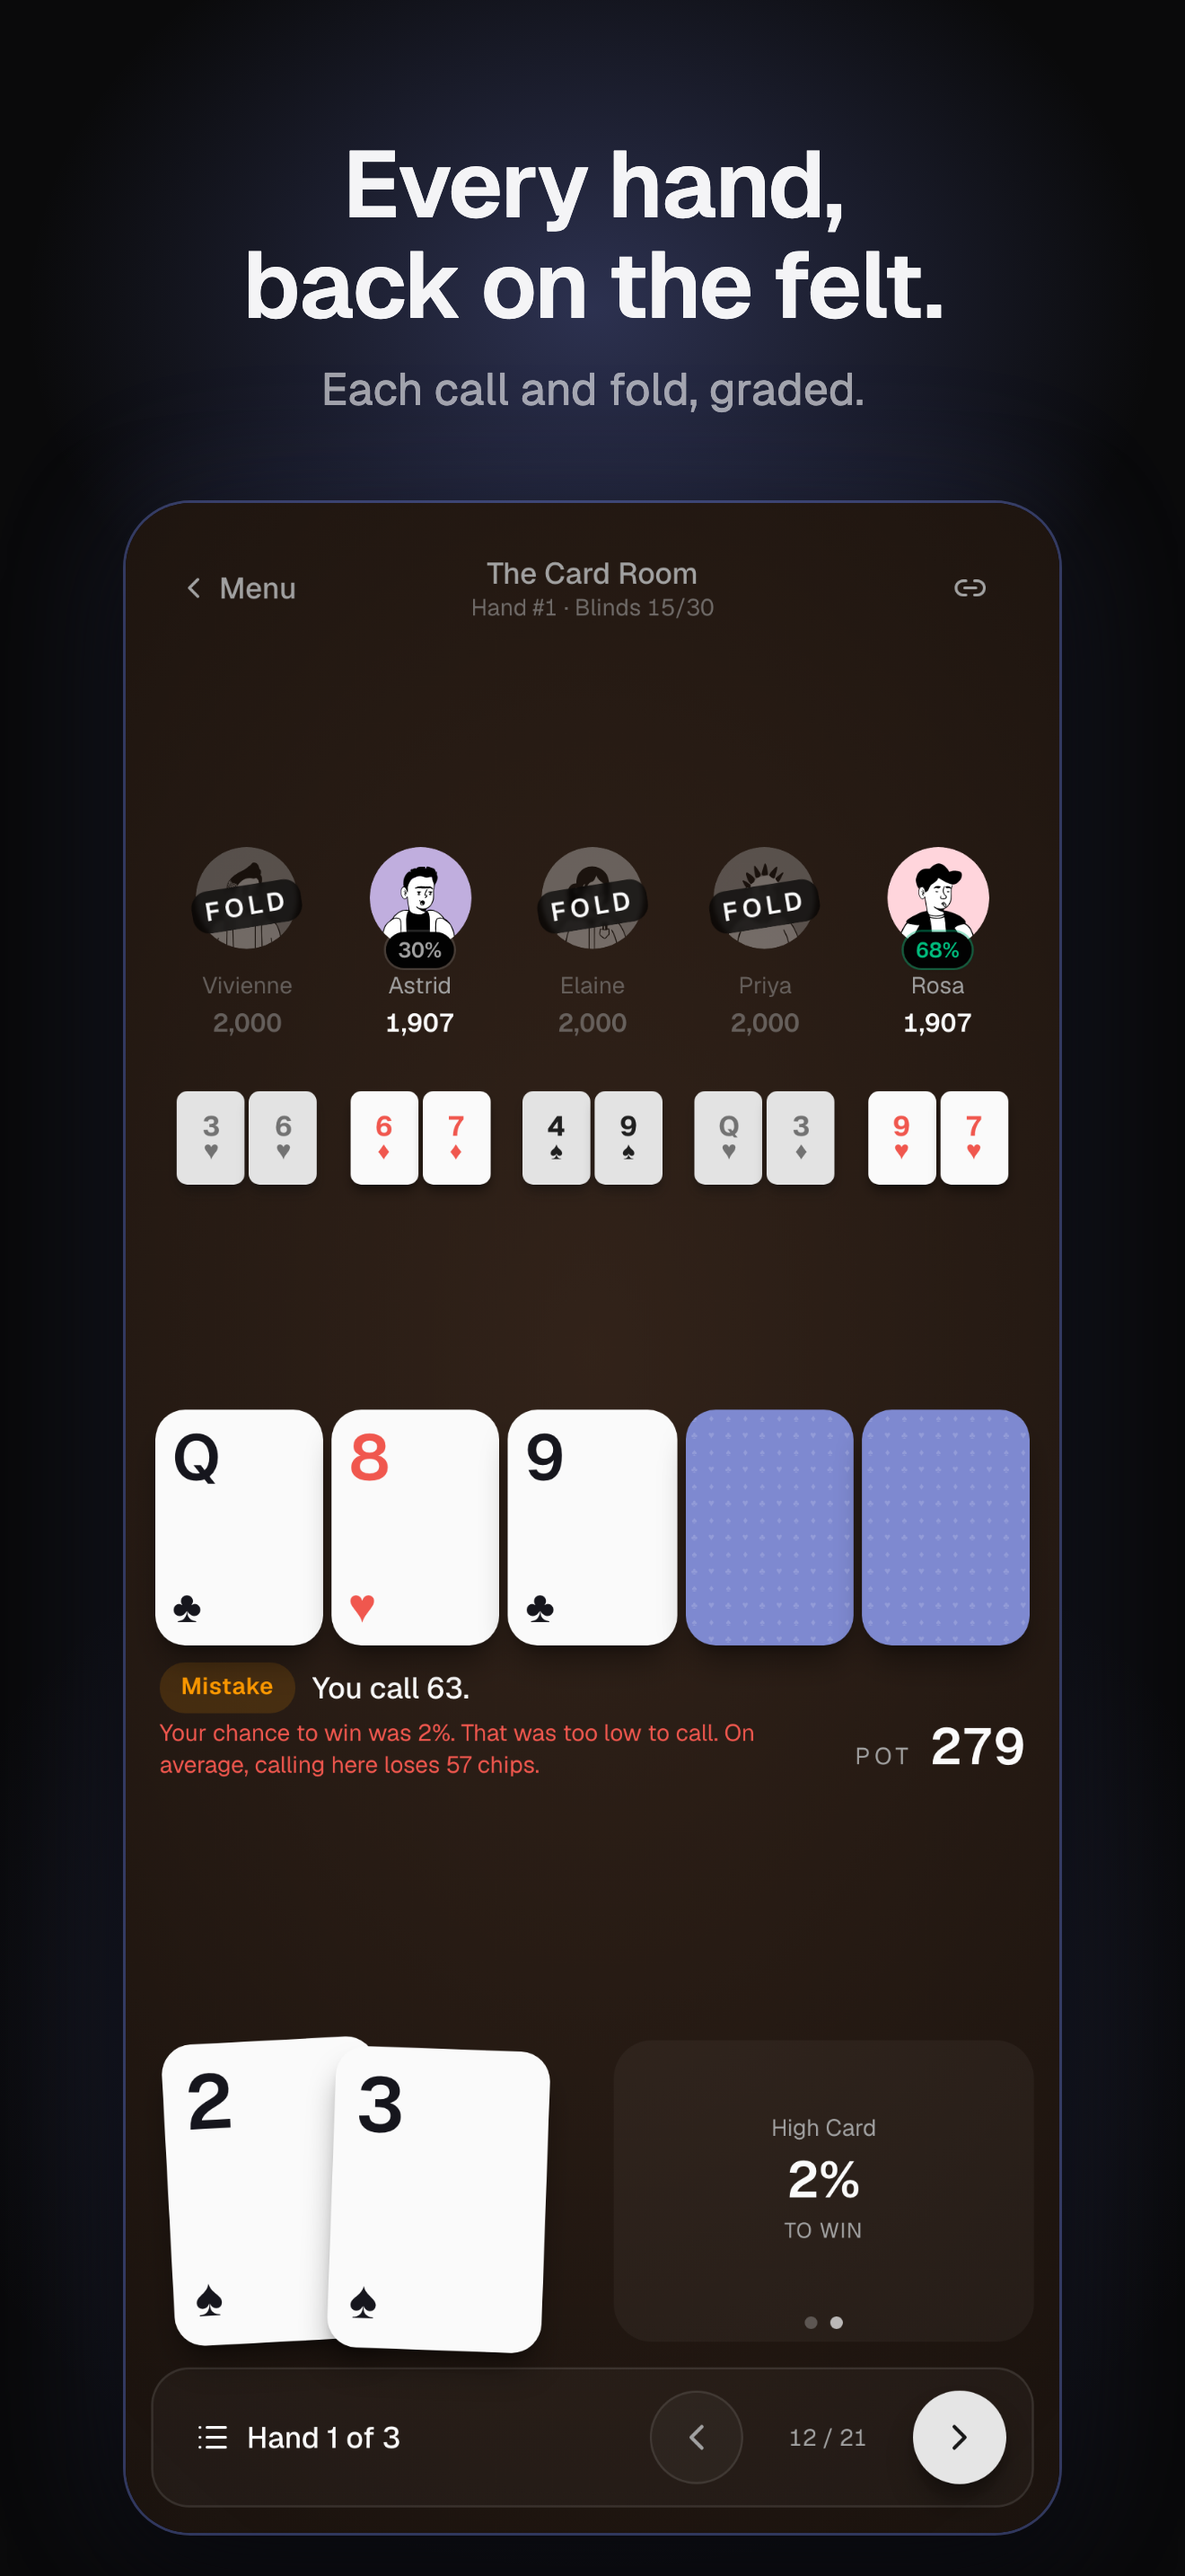
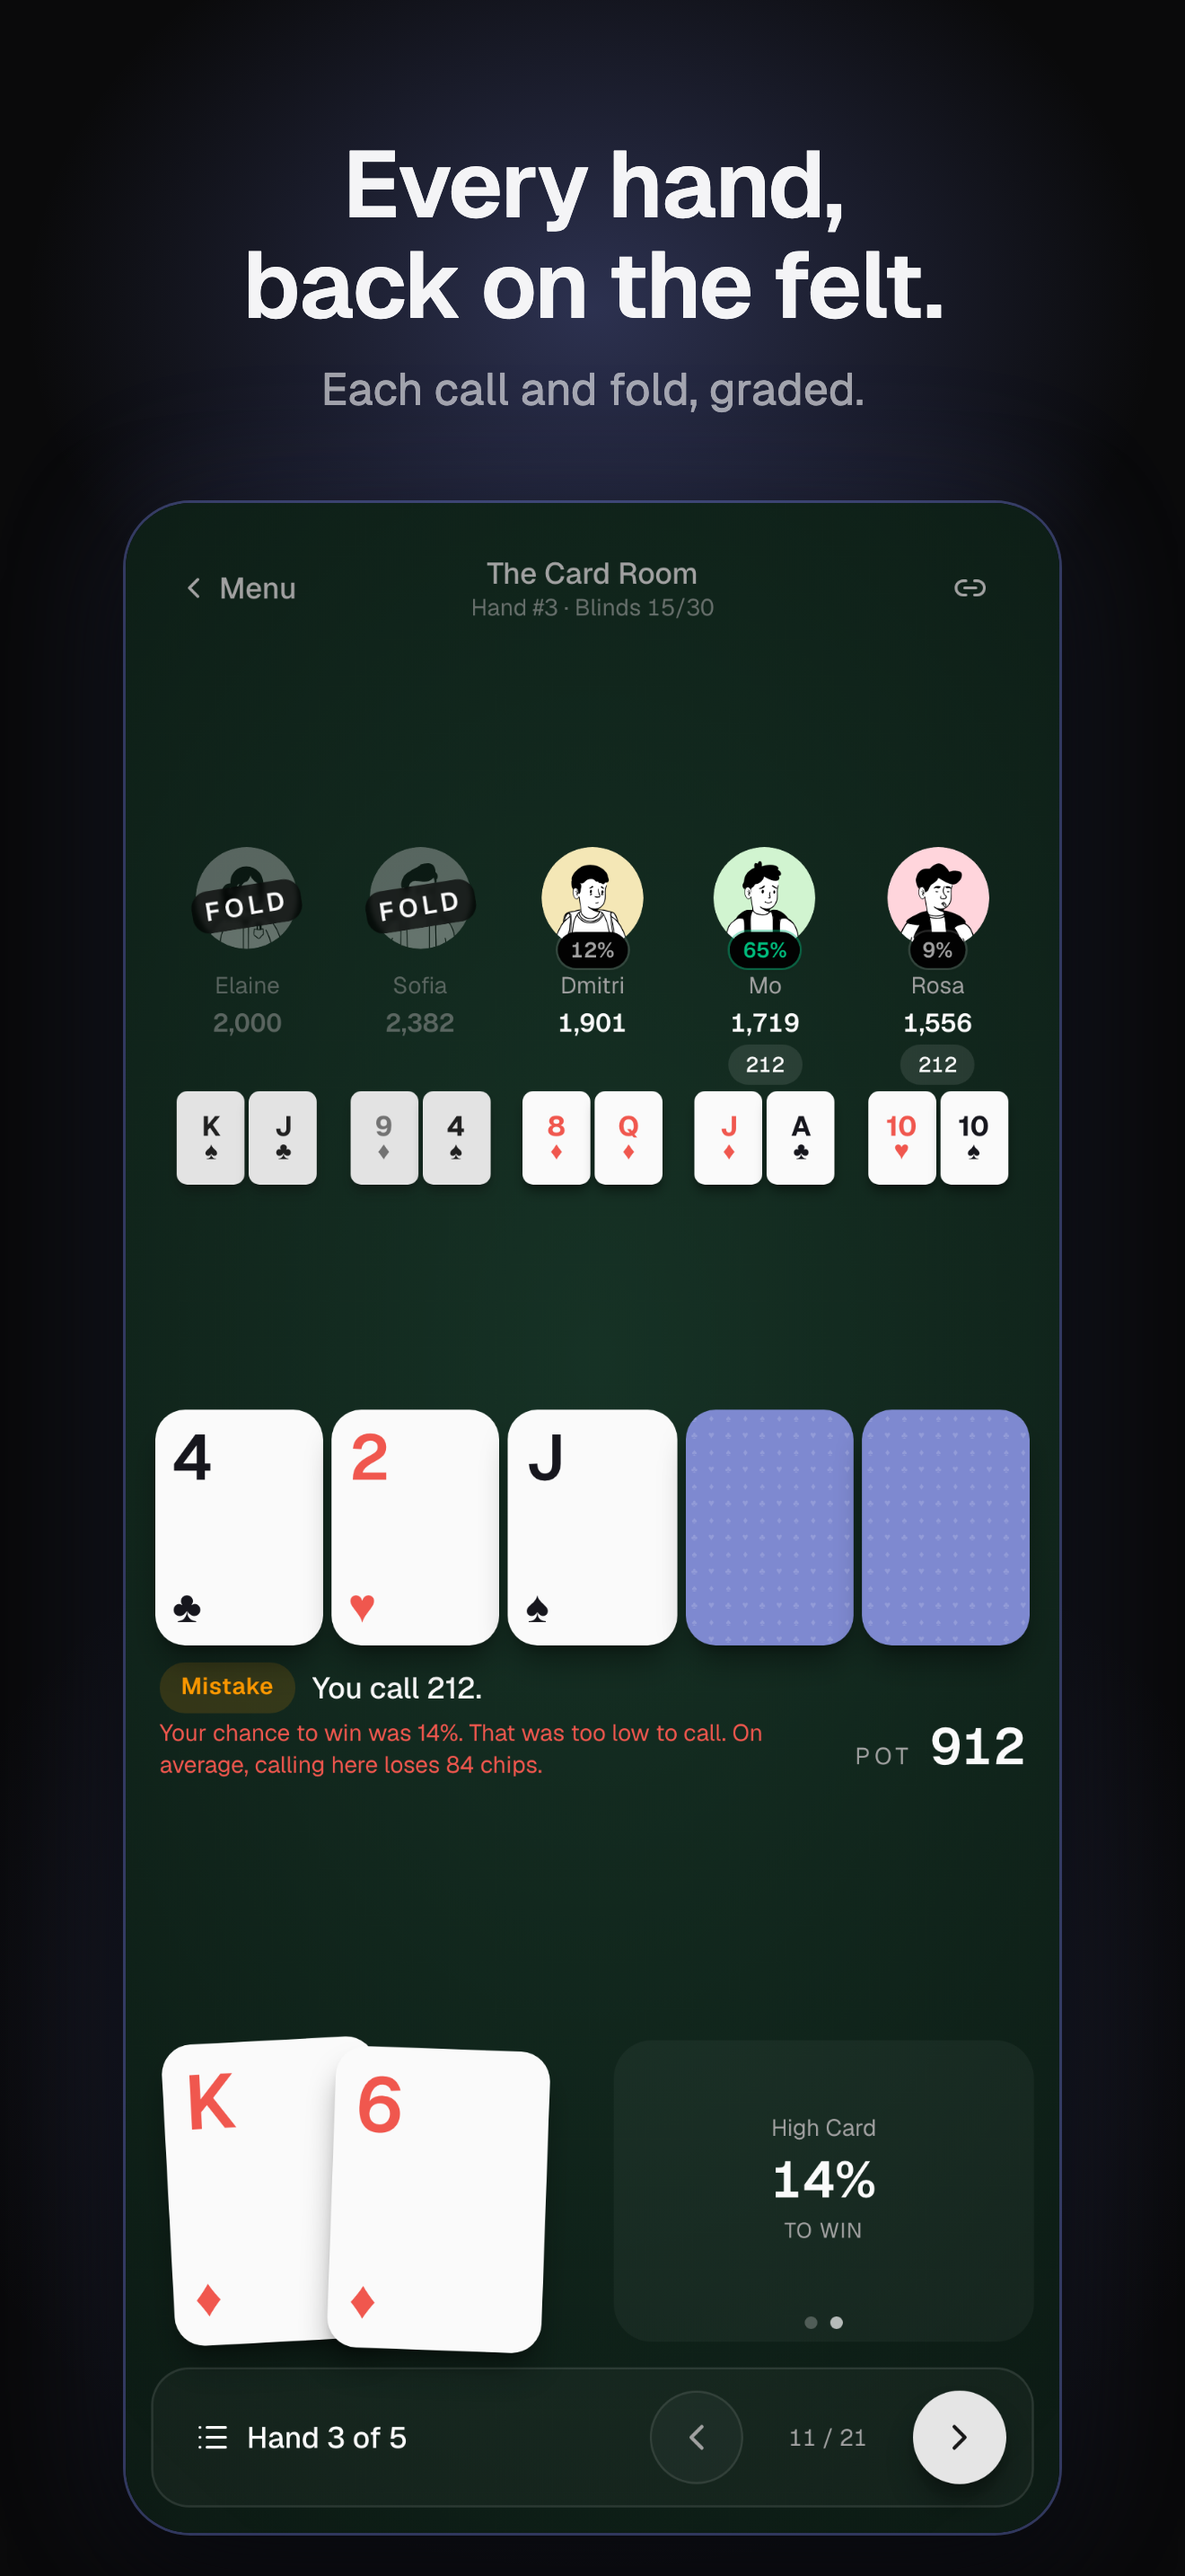
chore(app): green screenshots at 6.9" and 6.3", header and search art
Screenshots redone on the green felt with a mint avatar (and so a green sparkline), rendered natively at 1320x2868 and 1206x2622 and listed under APP_IPHONE_67 and APP_IPHONE_61. Promotional header (3840x1646, 5244x2950) and search-result (1920x1280, 3840x2560) images in store/promo. Both locales titled Pip: Poker.

diff --git a/mobile/store/README.md b/mobile/store/README.md
@@ -7,11 +7,14 @@ Everything for the App Store Connect listing. Phase 3 of `EXPO-PLAN.md`.
 | File | What it is |
 |------|------------|
 | `store.config.json` | EAS Metadata: name, subtitle, description, keywords, promo text, URLs, categories, age rating answers, copyright, review contact and notes. en-GB and en-US carry the same text. |
-| `screenshots/01-home.png` … `07-stats.png` | Seven 1320×2868 PNGs for the 6.9" iPhone slot, no alpha. Already listed in `store.config.json` under `APP_IPHONE_67`. |
+| `screenshots/01-home.png` … `07-stats.png` | Seven 1320×2868 PNGs for the 6.9" iPhone slot, no alpha. Listed in `store.config.json` under `APP_IPHONE_67`. |
+| `promo/` | Promotional art: two header images and two search-results images (below). |
+| `screenshots-6.3/` | The same seven at 1206×2622 for the 6.3" slot, rendered at that size rather than scaled down. Listed under `APP_IPHONE_61`. |
 
 The screenshots are the live site at playpip.io in a 440×956 iPhone viewport at 3×, with the
-app flag set (so the copy says "this app"), and a seeded profile (Robin, 18,450 chips, walnut
-table). Screens 03–06 are member features. They were captured with a stand-in signed-in member,
+app flag set (so the copy says "this app"), and a seeded profile (Robin, 18,450 chips, the
+green Baize finish, mint avatar background, so the felt, backdrop and Roll sparkline all read
+green). Screens 03–06 are member features. They were captured with a stand-in signed-in member,
 faked in the browser only, so nothing was written to Supabase.
 
 ## Before you submit: fill these in
@@ -44,14 +47,29 @@ Also decide:
 3. From `mobile/`: `npx eas-cli@latest metadata:push`. This pushes the text, age rating,
    categories, review info and screenshots. Screenshot paths in the config are relative to
    `mobile/`.
-4. If the push won't take the screenshots, drag the seven PNGs in order into the 6.9" iPhone
-   slot in App Store Connect. App Store Connect scales them down for the smaller iPhone sizes.
-   No iPad set is needed, because `supportsTablet` is false.
+4. **Which folder goes where:** `screenshots/` goes in the **6.9" Display** slot (required).
+   `screenshots-6.3/` goes in the **6.3" Display** slot (optional; without it App Store Connect
+   scales the 6.9" set down). If the push won't take them, drag each folder's seven PNGs in
+   order into its slot by hand. No iPad set is needed, because `supportsTablet` is false.
 5. Check in App Store Connect that the age rating comes out at 18+ (17+ under the older
    scheme) and that the categories read Games › Card (and Board), secondary Education.
 
 `release` is manual release plus phased rollout. Change `automaticRelease` to `true` if you
 want it live the moment it is approved.
+
+## Promotional art
+
+These go in App Store Connect's promotional artwork / featuring section (the app's page under
+App Store › Promotional Artwork, or the "Nominate" featuring form). They aren't part of
+`eas metadata:push`, so upload them by hand. All are opaque PNGs, composed at their own size,
+with the content kept inside roughly the central 80% so Apple's crops and overlays miss it.
+
+| File | Slot | What's on it |
+|------|------|--------------|
+| `promo/header-3840x1646.png` | Header / hero artwork, 3840×1646 (wide) | Chip, `pip` wordmark, "Hold'em, redesigned.", "Play money. No ads. No pop-ups.", and three screens: home, table, the Webb lesson |
+| `promo/header-5244x2950.png` | Header / hero artwork, 5244×2950 (16:9) | The same, with the three screens slightly overlapped to fit the narrower frame |
+| `promo/search-1920x1280.png` | Search results artwork, 1920×1280 | Chip, wordmark and the same line, set large for small display, with one screen (the table) |
+| `promo/search-3840x2560.png` | Search results artwork, 3840×2560 (2×) | The same at double size |
 
 ## App Privacy ("nutrition label")
 
